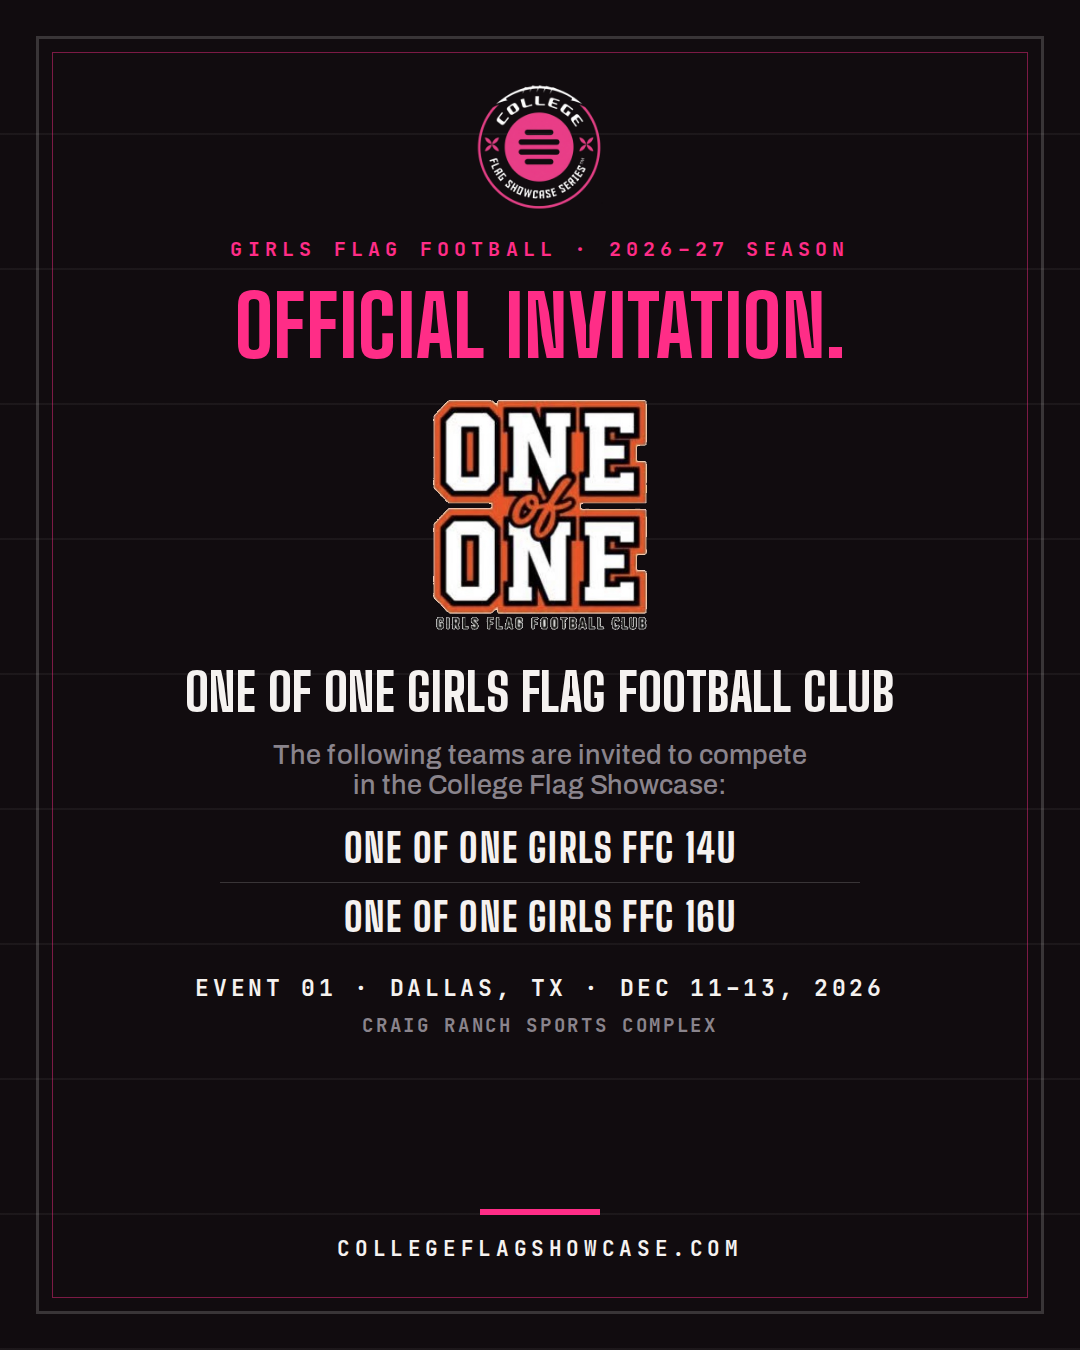
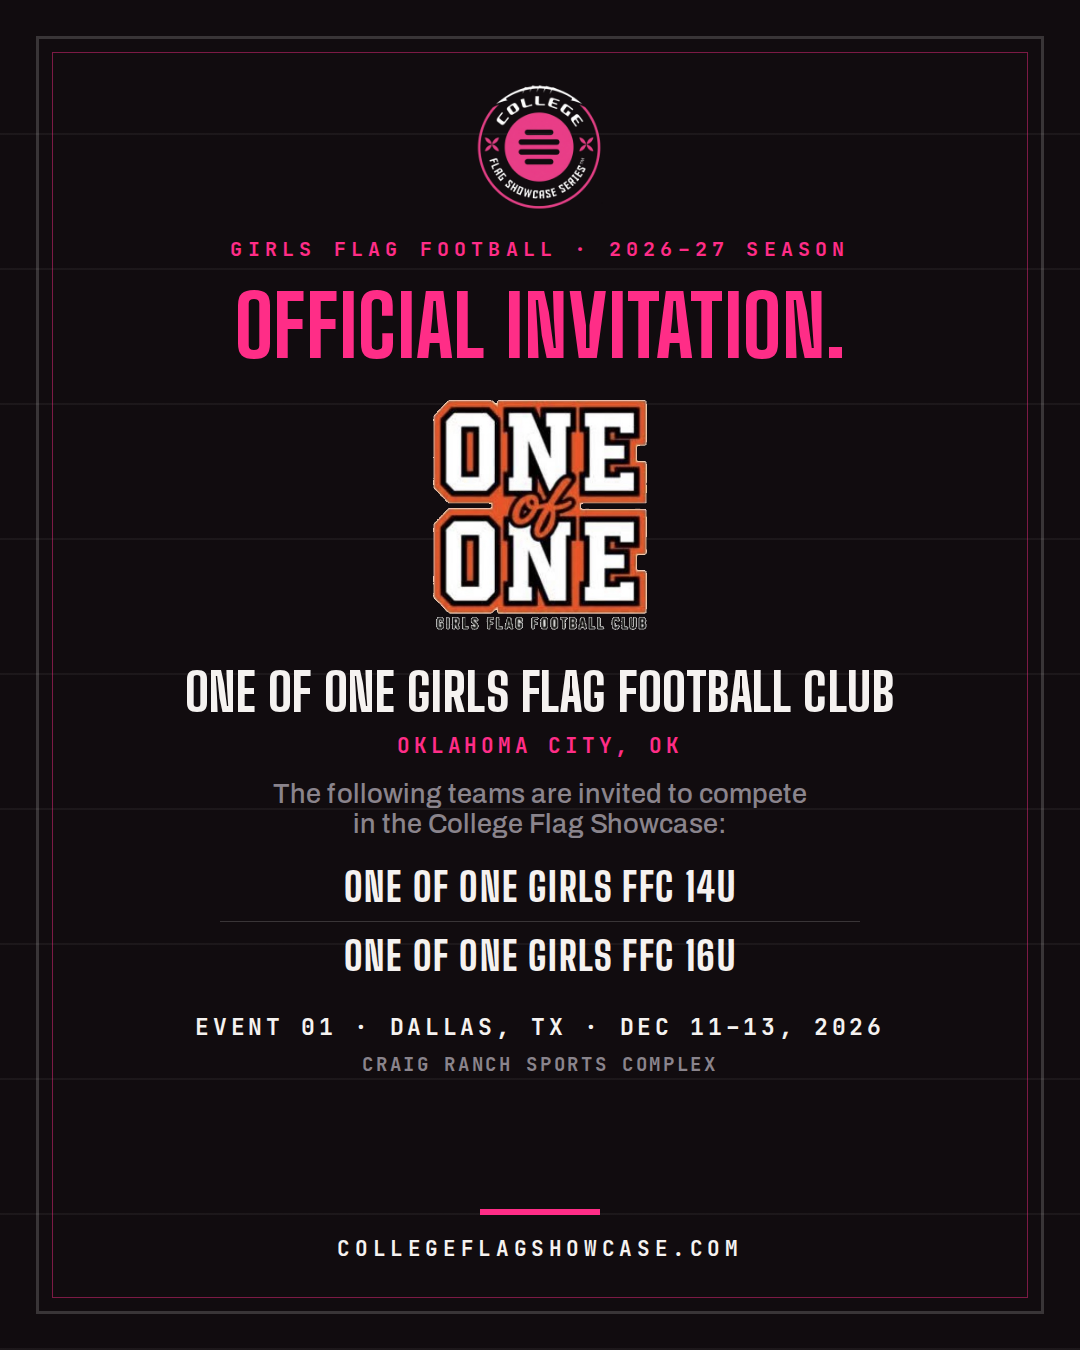
Org invitation graphic: add home city/state line
Claude-Session: https://claude.ai/code/session_019V32boShoBmRrwWenCPJFc

diff --git a/collateral/invite-org-official.html b/collateral/invite-org-official.html
@@ -10,9 +10,10 @@
   nothing private on it; the registration link lives only in the email.
 
   Render with:
-    node collateral/render-org-invite.mjs "Org Name" ../public/programs/logo.png "Team 14U|Team 16U" out.png
+    node collateral/render-org-invite.mjs "Org Name" ../public/programs/logo.png "City, ST" "Team 14U|Team 16U" out.png
 
   {{ORG_NAME}}   — organization name, e.g. "One of One Girls Flag Football Club"
+  {{LOCATION}}   — home city/state, e.g. "Oklahoma City, OK" (match data/organizations.ts)
   {{LOGO}}       — logo path relative to collateral/
   {{TEAM_ROWS}}  — one <p class="team-row">…</p> per invited team
   {{EVENT_LINE}} — e.g. Event 01 · Dallas, TX · Dec 11–13, 2026
@@ -45,7 +46,8 @@
   .org-logo{margin-top:34px;height:230px;max-width:640px;object-fit:contain;flex-shrink:0}
   .org-name{margin-top:36px;font-family:var(--display);font-weight:800;text-transform:uppercase;line-height:1;letter-spacing:.01em;font-size:52px;max-width:900px}
 
-  .invited-line{margin-top:22px;font-size:27px;font-weight:500;color:var(--steel)}
+  .org-loc{margin-top:14px;font-family:var(--mono);font-size:21px;font-weight:700;letter-spacing:.18em;text-transform:uppercase;color:var(--red)}
+  .invited-line{margin-top:20px;font-size:27px;font-weight:500;color:var(--steel)}
   .teams{margin-top:14px;width:640px}
   .team-row{font-family:var(--display);font-weight:800;text-transform:uppercase;letter-spacing:.03em;font-size:40px;color:var(--chalk);padding:10px 0;border-bottom:1px solid rgba(245,242,240,.18)}
   .team-row:last-child{border-bottom:0}
@@ -70,6 +72,7 @@
     <h1 class="invite-title">Official Invitation.</h1>
     <img class="org-logo" src="{{LOGO}}" alt="{{ORG_NAME}}" />
     <h2 class="org-name">{{ORG_NAME}}</h2>
+    <p class="org-loc">{{LOCATION}}</p>
     <p class="invited-line">The following teams are invited to compete<br />in the <span style="white-space:nowrap">College Flag Showcase:</span></p>
     <div class="teams">
       {{TEAM_ROWS}}
